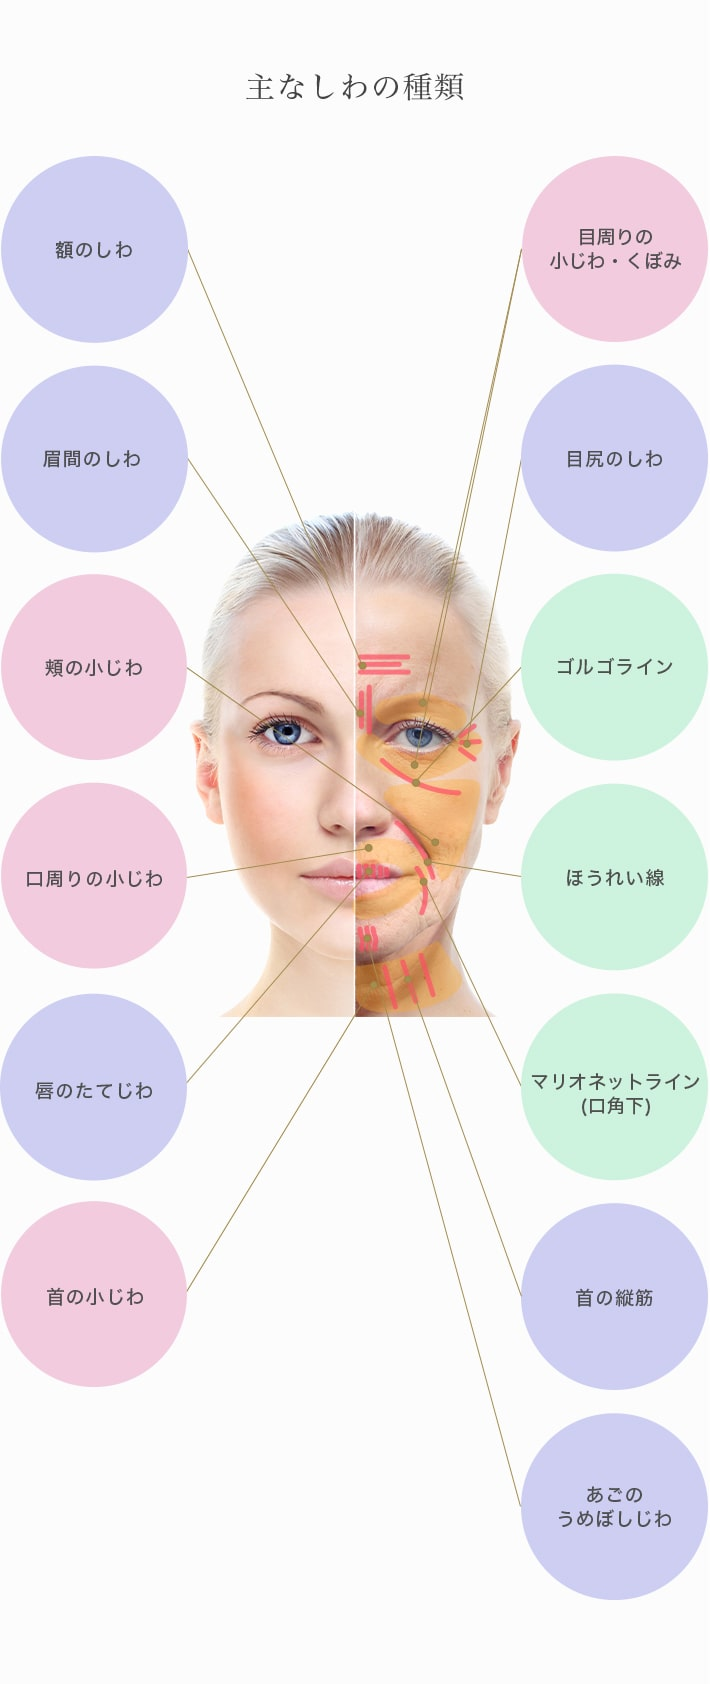
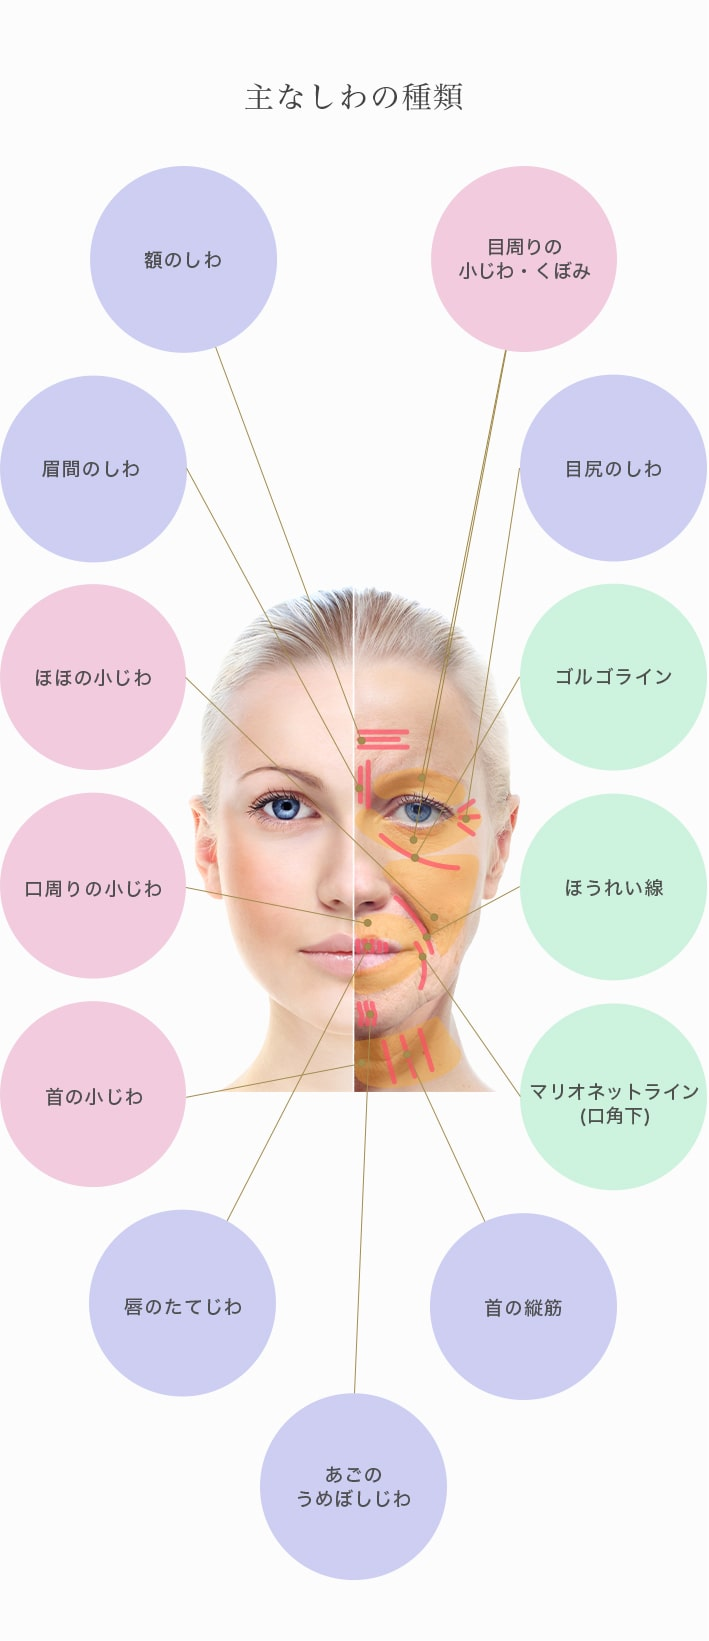
オーダーメイド画像差し替え

diff --git a/css/style.css b/css/style.css
@@ -4569,8 +4569,8 @@ footer.pages.list-footer .copy {
 }
 @media (max-width: 767px) {
   .order__made__ilast__center {
-    padding: 9.599999976vw 0 10.93333331vw;
-    margin-bottom: 4.25rem;
+    padding: 9.599999976vw 0 1.93333331vw;
+    margin-bottom: 3.95rem;
   }
 }
 .order__made__ilast__center .ilast_center {
@@ -4587,8 +4587,6 @@ footer.pages.list-footer .copy {
   .order__made__ilast__center .ilast_center img {
     margin: 0;
     width: 100%;
-    -webkit-transform: scale(1.08);
-            transform: scale(1.08);
   }
 }
 .order__made__ilast__center .ilast_center h2 {
@@ -4856,7 +4854,7 @@ footer.pages.list-footer .copy {
 }
 @media (max-width: 767px) {
   .order__injection__ilast .inner .desc__right .ilast__sub__desc {
-    width: 76.55%;
+    width: 76.85%;
     position: absolute;
     left: 0;
     top: 0;
@@ -4864,8 +4862,8 @@ footer.pages.list-footer .copy {
   }
 }
 .order__injection__ilast .inner .desc__right .anchor__marks {
-  width: 81%;
-  margin-left: 16%;
+  width: 82.8%;
+  margin-left: 15%;
   margin-top: 1.2rem;
 }
 @media (max-width: 767px) {
@@ -4873,9 +4871,9 @@ footer.pages.list-footer .copy {
     width: 23%;
     padding-left: 77%;
     -webkit-box-orient: vertical;
-    -webkit-box-direction: normal;
-        -ms-flex-flow: column;
-            flex-flow: column;
+    -webkit-box-direction: reverse;
+        -ms-flex-flow: column-reverse;
+            flex-flow: column-reverse;
     margin: 0;
     -webkit-box-pack: center;
         -ms-flex-pack: center;

diff --git a/css/scss/page/_operation.scss b/css/scss/page/_operation.scss
@@ -1504,8 +1504,8 @@
     margin-bottom: 0;
 
     @media (max-width: 767px) {
-        padding: 9.599999976vw 0 10.93333331vw;
-        margin-bottom: 4.25rem;
+        padding: 9.599999976vw 0 1.93333331vw;
+        margin-bottom: 3.95rem;
     }
 
     .ilast_center {
@@ -1521,7 +1521,8 @@
             @media (max-width: 767px) {
                 margin: 0;
                 width: 100%;
-                transform: scale(1.08);
+
+                //transform: scale(1.08);
             }
         }
 
@@ -1817,7 +1818,7 @@
 
             .ilast__sub__desc {
                 @media (max-width: 767px) {
-                    width: 76.55%;
+                    width: 76.85%;
                     position: absolute;
                     left: 0;
                     top: 0;
@@ -1828,14 +1829,14 @@
             }
 
             .anchor__marks {
-                width: 81%;
-                margin-left: 16%;
+                width: 82.8%;
+                margin-left: 15%;
                 margin-top: 1.2rem;
 
                 @media (max-width: 767px) {
                     width: 23%;
                     padding-left: 77%;
-                    flex-flow: column;
+                    flex-flow: column-reverse;
                     margin: 0;
                     justify-content: center;
                 }

diff --git a/page-order_made.php b/page-order_made.php
@@ -26,7 +26,7 @@
 </section>
 <section class="order__made__ilast__center">
   <div class="inner">
-    <div class="ilast_center"> <img src="<?php echo get_template_directory_uri(); ?>/img/operation/order_made/ilast_center.jpg?0325" alt="主なシワの種類" class="pc-dis"> <img src="<?php echo get_template_directory_uri(); ?>/img/operation/order_made/ilast_center_sp.jpg?0315" alt="主なシワの種類" class="sp-dis">
+    <div class="ilast_center"> <img src="<?php echo get_template_directory_uri(); ?>/img/operation/order_made/ilast_center.jpg?0325" alt="主なシワの種類" class="pc-dis"> <img src="<?php echo get_template_directory_uri(); ?>/img/operation/order_made/ilast_center_sp.jpg?03188" alt="主なシワの種類" class="sp-dis">
       <h2>主なしわの種類</h2>
     </div>
     <!--./ilast_center-->
@@ -83,7 +83,7 @@
   <div class="inner">
     <div class="thumb pc-dis"> <img src="<?php echo get_template_directory_uri(); ?>/img/operation/order_made/ilast_desc__thumb.jpg" alt="いらすと"> </div>
     <div class="desc__right">
-      <div class="ilast__sub__desc"> <img src="<?php echo get_template_directory_uri(); ?>/img/operation/order_made/ilast_desc01.png?0315" alt="イラスト" class="pc"> <img src="<?php echo get_template_directory_uri(); ?>/img/operation/order_made/ilast_desc01_sp02.png?0313" alt="イラスト" class="sp"> </div>
+      <div class="ilast__sub__desc"> <img src="<?php echo get_template_directory_uri(); ?>/img/operation/order_made/ilast_desc01.png?0315" alt="イラスト" class="pc"> <img src="<?php echo get_template_directory_uri(); ?>/img/operation/order_made/ilast_desc01_sp02.png?0318" alt="イラスト" class="sp"> </div>
       <ul class="anchor__marks flex">
         <?php home_url("/");?>
         <li class="green"><a href="<?php home_url("/");?>tarumi#area1"> <i><img src="<?php echo get_template_directory_uri(); ?>/img/operation/order_made/injection_green.png" alt="注入イラスト"></i>

diff --git a/header.php b/header.php
@@ -9,7 +9,7 @@
 <meta name="format-detection" content="telephone=no">
 <link rel="stylesheet" href="https://cdnjs.cloudflare.com/ajax/libs/Swiper/3.4.1/css/swiper.min.css">
 <link rel="stylesheet" href="<?php echo get_template_directory_uri(); ?>/css/common.css">
-<link rel="stylesheet" href="<?php echo get_template_directory_uri(); ?>/css/style.css?20203011601">
+<link rel="stylesheet" href="<?php echo get_template_directory_uri(); ?>/css/style.css?20200317">
 <script>
   (function(d) {
     var config = {
